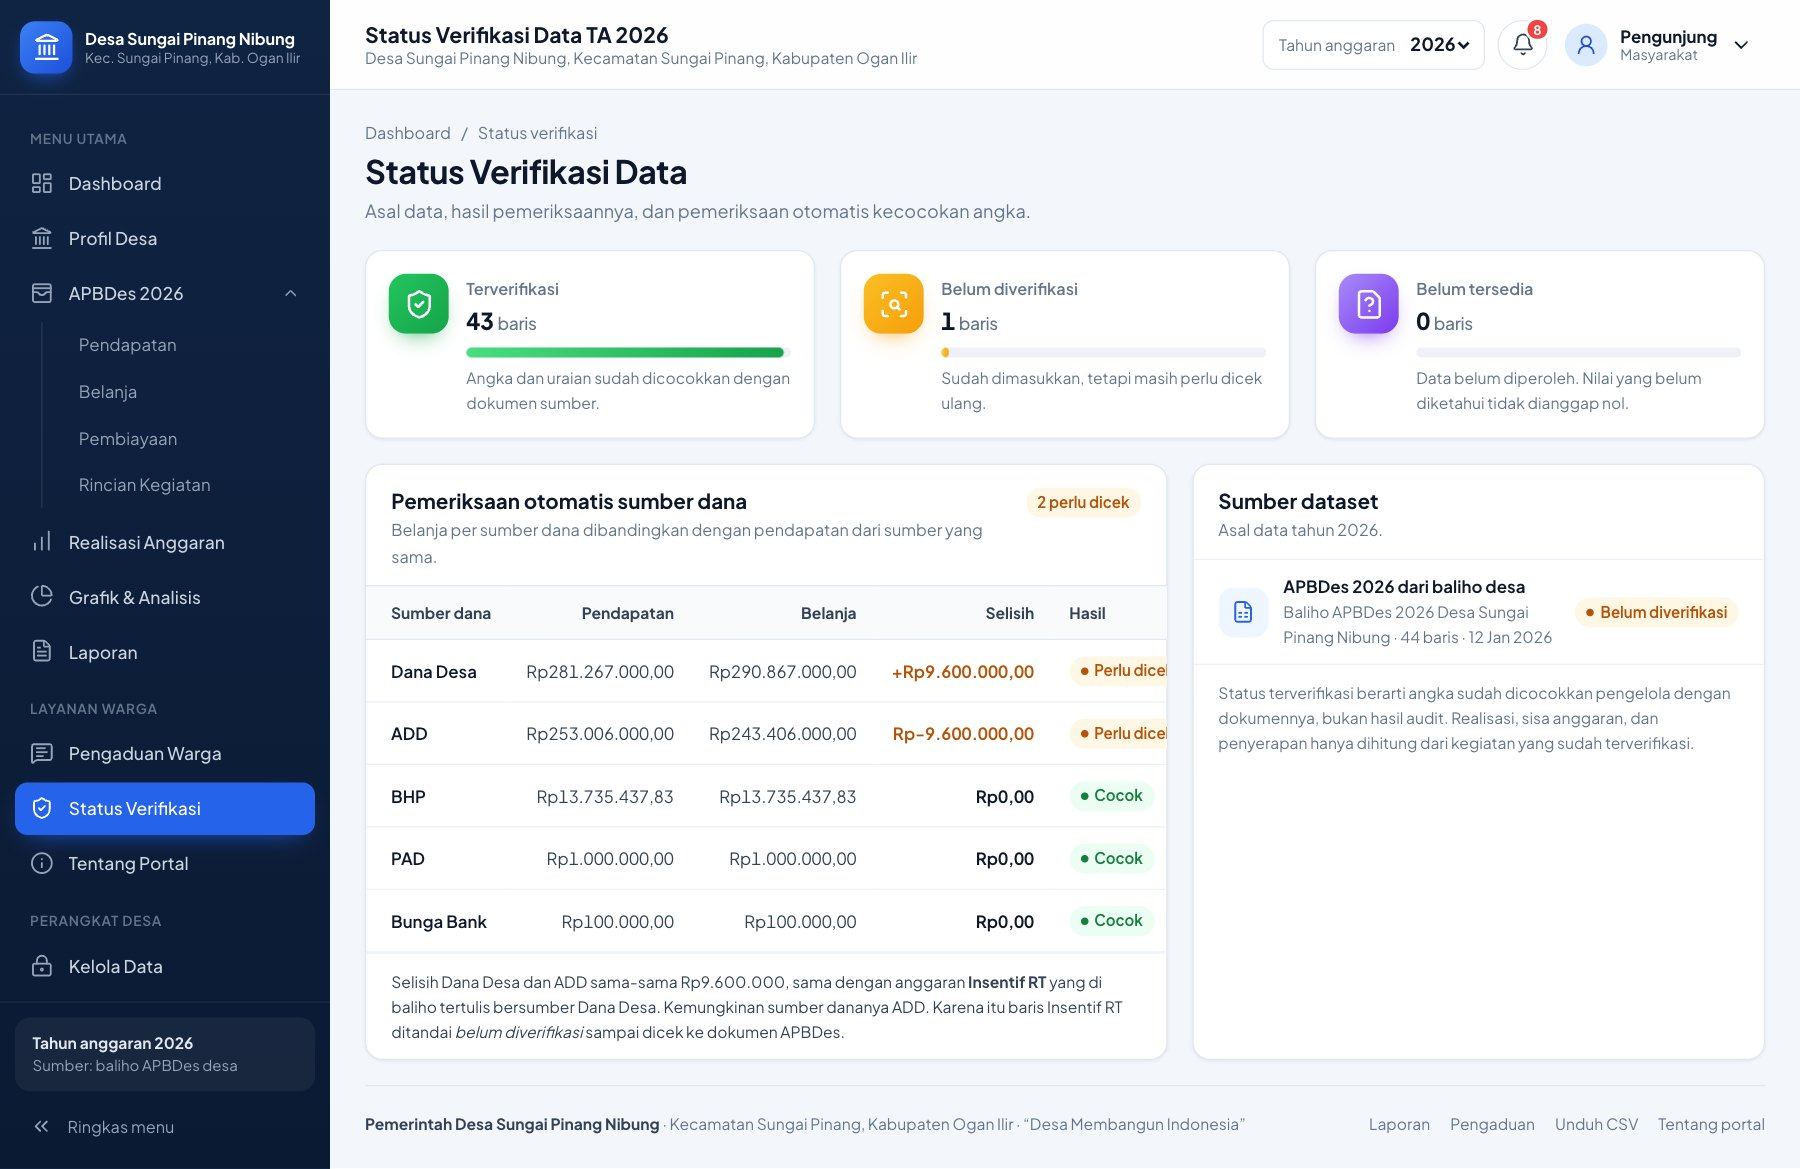
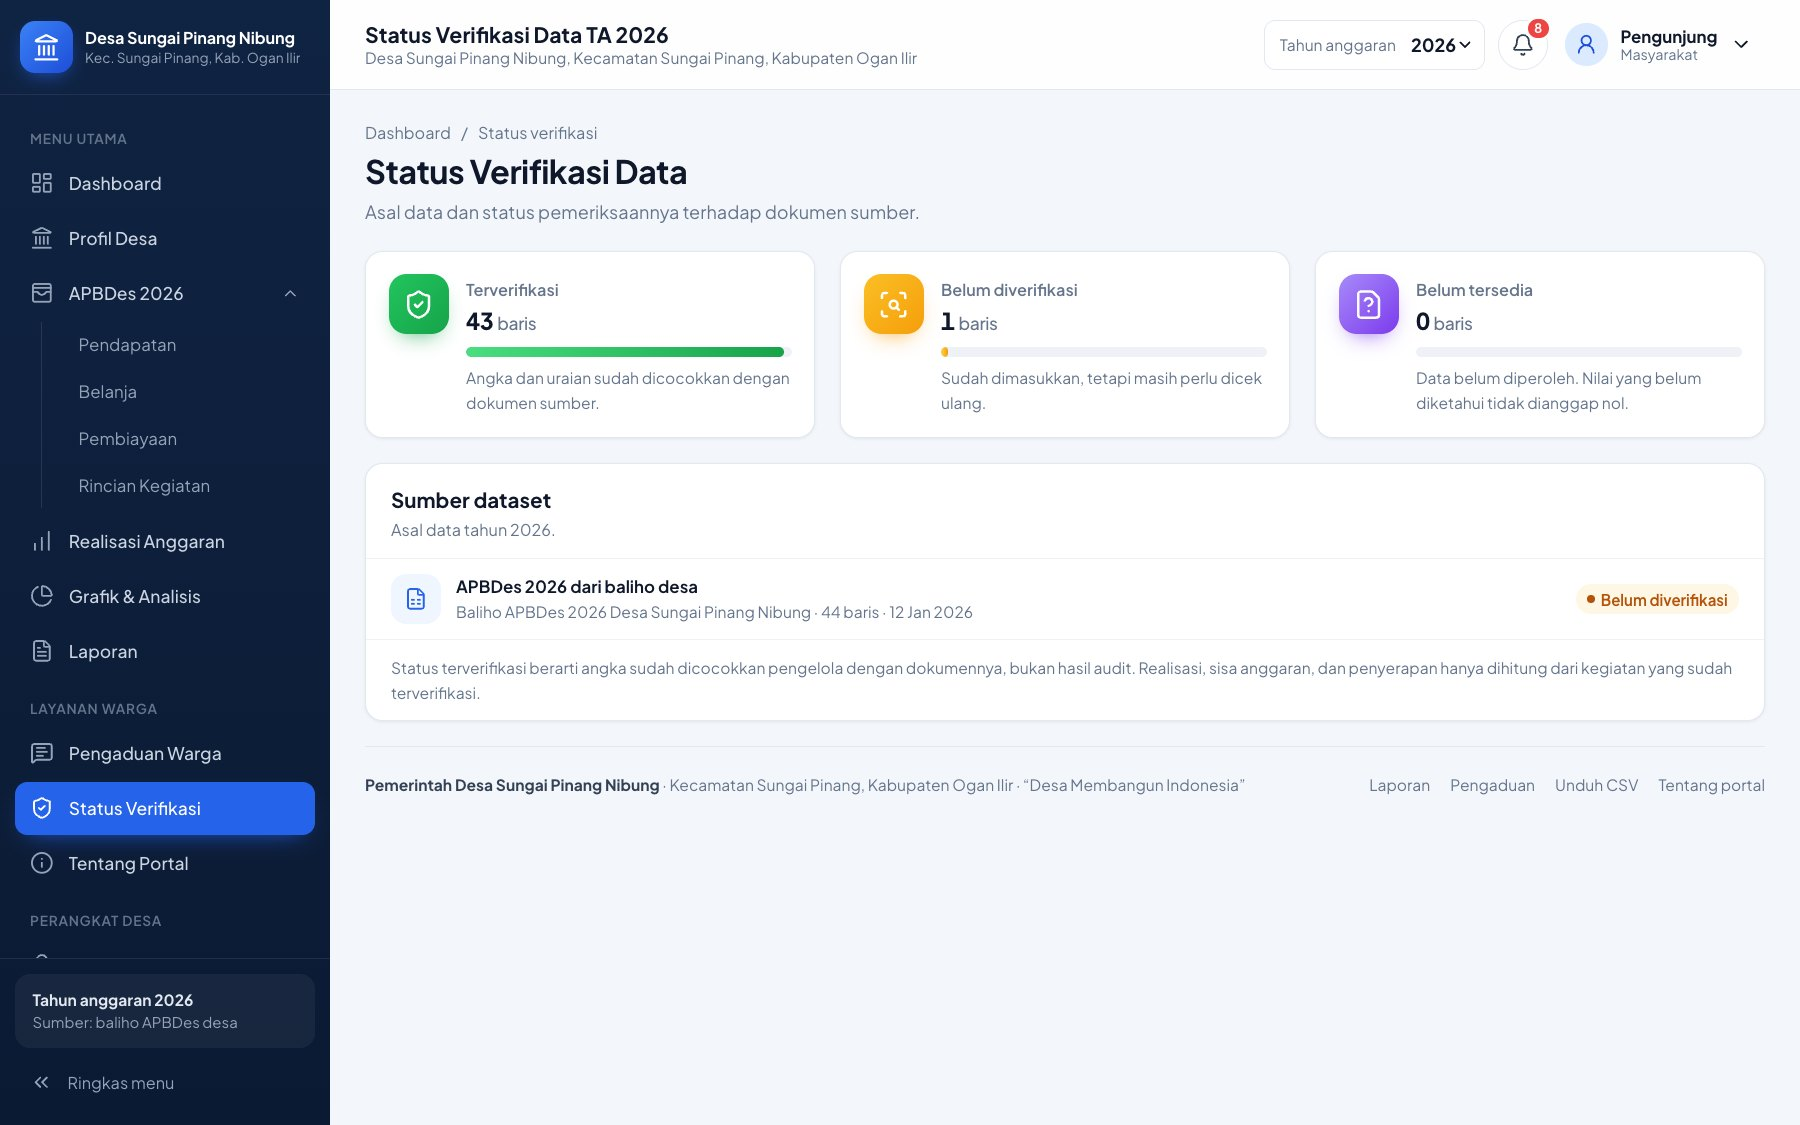
Sembunyikan pemeriksaan selisih sumber dana dari halaman publik
Halaman Status Verifikasi kini hanya menampilkan jumlah data per status dan
sumber dataset. Pemeriksaan otomatis tetap tersedia di halaman pengelola.
README dan screenshot ikut disesuaikan.

diff --git a/resources/views/quality.blade.php b/resources/views/quality.blade.php
@@ -10,13 +10,12 @@
         ['unverified', 'Belum diverifikasi', $summary['unverified_count'], 'Sudah dimasukkan, tetapi masih perlu dicek ulang.', 'amber', 'scan-search'],
         ['unavailable', 'Belum tersedia', $summary['unavailable_count'], 'Data belum diperoleh. Nilai yang belum diketahui tidak dianggap nol.', 'purple', 'file-question'],
     ];
-    $mismatches = collect($payload['checks'])->filter(fn ($check) => abs($check['difference']) >= 0.01);
 @endphp
 <div class="page-head" data-reveal>
     <div>
         <nav class="crumbs" aria-label="Lokasi"><a href="{{ route('dashboard', ['year' => $payload['year']]) }}">Dashboard</a><span>/</span><span>Status verifikasi</span></nav>
         <h1>Status Verifikasi Data</h1>
-        <p>Asal data, hasil pemeriksaannya, dan pemeriksaan otomatis kecocokan angka.</p>
+        <p>Asal data dan status pemeriksaannya terhadap dokumen sumber.</p>
     </div>
 </div>
 
@@ -26,26 +25,7 @@
     @endforeach
 </section>
 
-<section class="grid grid-7-5">
-    <article class="card" data-reveal>
-        <header class="card-head"><div><h2>Pemeriksaan otomatis sumber dana</h2><p>Belanja per sumber dana dibandingkan dengan pendapatan dari sumber yang sama.</p></div>@if($mismatches->isEmpty())<span class="badge badge-green">Semua cocok</span>@else<span class="badge badge-amber">{{ $mismatches->count() }} perlu dicek</span>@endif</header>
-        <div class="table-wrap">
-            <table class="table stack">
-                <thead><tr><th>Sumber dana</th><th class="text-right">Pendapatan</th><th class="text-right">Belanja</th><th class="text-right">Selisih</th><th>Hasil</th></tr></thead>
-                <tbody>
-                @forelse($payload['checks'] as $check)
-                    @php $ok = abs($check['difference']) < 0.01; @endphp
-                    <tr style="--row: {{ $loop->index }}"><td class="cell-main strong">{{ $check['source'] }}</td><td class="text-right" data-label="Pendapatan"><x-money :value="$check['income']" :decimals="2" /></td><td class="text-right" data-label="Belanja"><x-money :value="$check['expense']" :decimals="2" /></td><td class="text-right amount" data-label="Selisih" style="color: {{ $ok ? 'inherit' : '#b45309' }}">{{ $check['difference'] > 0 ? '+' : '' }}<x-money :value="$check['difference']" :decimals="2" /></td><td data-label="Hasil">@if($ok)<span class="badge badge-green status">Cocok</span>@else<span class="badge badge-amber status">Perlu dicek</span>@endif</td></tr>
-                @empty
-                    <tr><td colspan="5"><div class="empty"><p>Belum ada data untuk diperiksa.</p></div></td></tr>
-                @endforelse
-                </tbody>
-            </table>
-        </div>
-        @if($mismatches->isNotEmpty())
-            <footer class="card-foot" style="display: block; color: var(--ink-2); line-height: 1.6">Selisih Dana Desa dan ADD sama-sama Rp9.600.000, sama dengan anggaran <strong>Insentif RT</strong> yang di baliho tertulis bersumber Dana Desa. Kemungkinan sumber dananya ADD. Karena itu baris Insentif RT ditandai <em>belum diverifikasi</em> sampai dicek ke dokumen APBDes.</footer>
-        @endif
-    </article>
+<section class="grid">
     <article class="card" data-reveal>
         <header class="card-head"><div><h2>Sumber dataset</h2><p>Asal data tahun {{ $payload['year'] }}.</p></div></header>
         @forelse($payload['datasets'] as $dataset)

diff --git a/tests/Feature/MonitoringPagesTest.php b/tests/Feature/MonitoringPagesTest.php
@@ -51,11 +51,16 @@ class MonitoringPagesTest extends TestCase
         $this->get(route('budgets.index', ['type' => 'expense']))->assertOk()->assertSeeText('Pembuatan sumur bor')->assertSeeText('12 unit');
     }
 
-    public function test_quality_page_flags_the_funding_source_mismatch_from_the_baliho(): void
+    public function test_public_quality_page_shows_status_counts_without_internal_funding_checks(): void
     {
         $this->seed();
 
-        $this->get(route('quality'))->assertOk()->assertSeeText('Perlu dicek')->assertSeeText('Insentif RT');
+        $this->get(route('quality'))->assertOk()
+            ->assertSeeText('Status Verifikasi Data')
+            ->assertSeeText('APBDes 2026 dari baliho desa')
+            ->assertDontSeeText('Pemeriksaan otomatis sumber dana')
+            ->assertDontSeeText('Insentif RT')
+            ->assertDontSeeText('Rp9.600.000');
     }
 
     public function test_notification_feed_lists_latest_spending_and_new_complaints_only_for_officials(): void

diff --git a/README.md b/README.md
@@ -31,8 +31,7 @@ Untuk masyarakat (tanpa login):
   tiket untuk melihat tanggapan. Dilindungi pembatas kiriman dan jebakan bot.
 - Pencarian kegiatan (tekan `/`): semua kata harus cocok, hasil diurutkan
   dari yang paling relevan, kata kunci ditandai.
-- Status verifikasi data, termasuk pemeriksaan otomatis kecocokan belanja per
-  sumber dana dengan pendapatannya.
+- Status verifikasi data beserta sumber datasetnya.
 
 Untuk perangkat desa (login):
 
@@ -69,11 +68,6 @@ Untuk perangkat desa (login):
   sudah terverifikasi. Kegiatan yang belum diverifikasi tetap tampil dengan
   label statusnya dan keterangan "belum dihitung", termasuk di laporan PDF dan
   Excel.
-- Pemeriksaan otomatis menemukan belanja bersumber Dana Desa
-  Rp290.867.000 (pendapatan DD Rp281.267.000) dan ADD Rp243.406.000
-  (pendapatan ADD Rp253.006.000). Selisih Rp9.600.000 sama dengan Insentif RT,
-  jadi baris itu ditandai belum diverifikasi sampai dicek ke dokumen APBDes
-  dan realisasinya belum ikut dihitung.
 
 ## Teknologi
 
